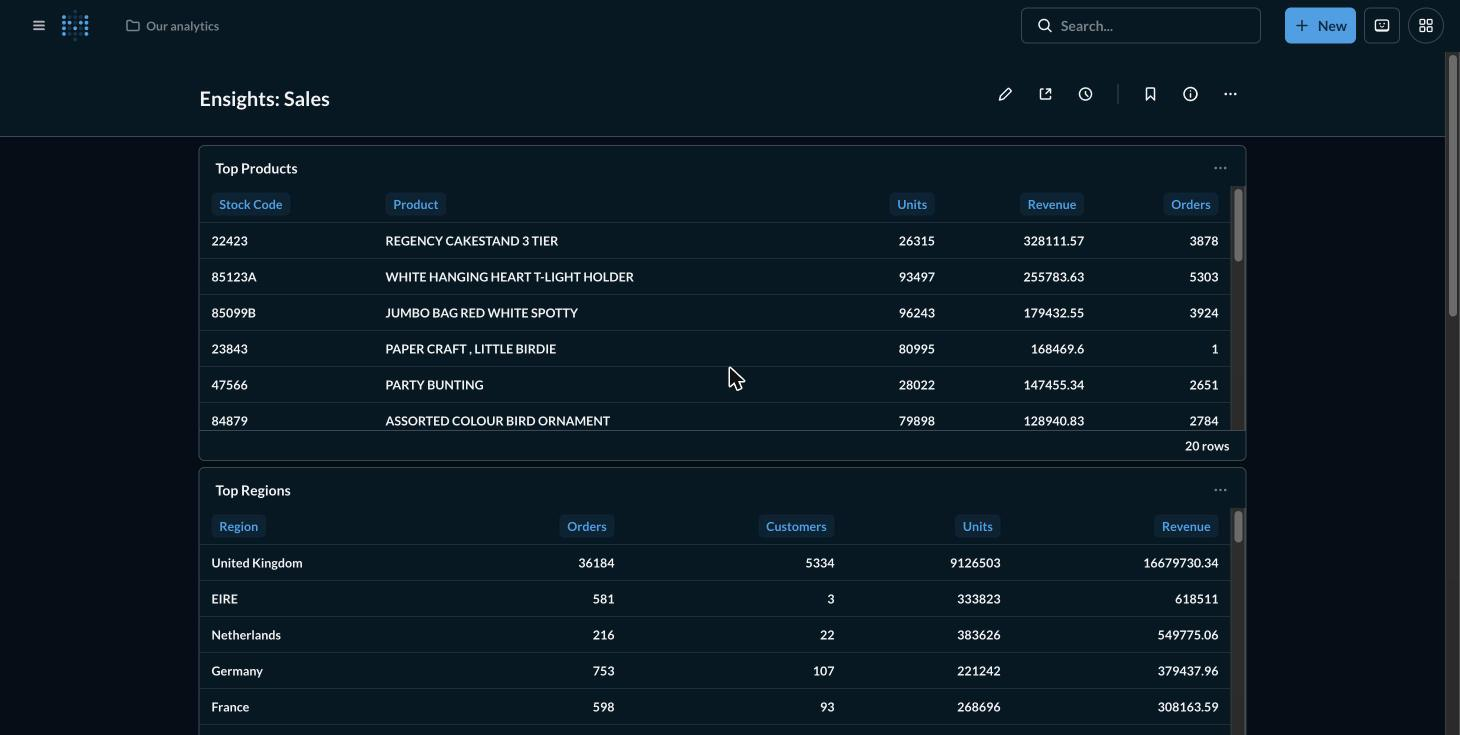
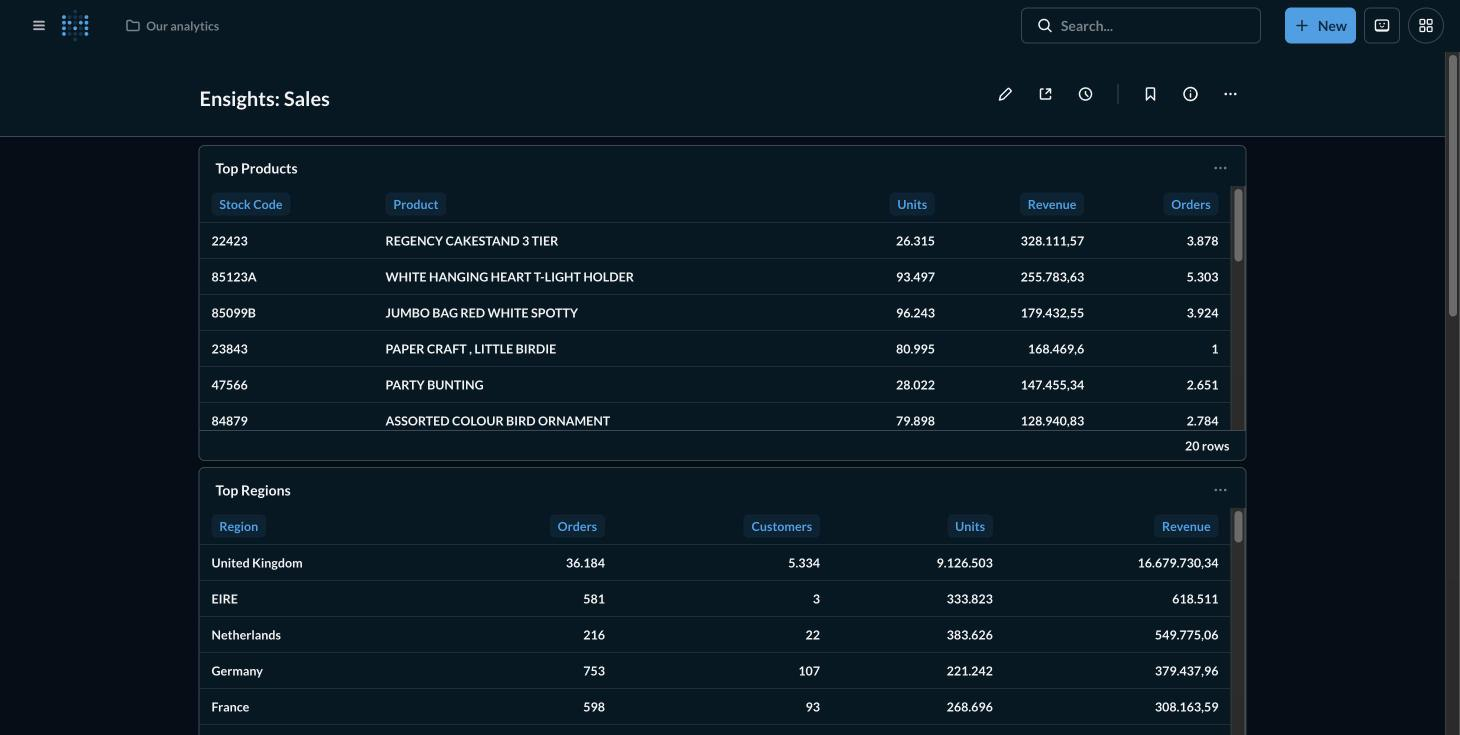
Match the thesis number convention in `Metabase`

diff --git a/metabase/README.md b/metabase/README.md
@@ -17,10 +17,11 @@ Metabase runs as an optional service and is already wired up:
 docker compose up metabase  # http://localhost:3000
 ```
 
-Set **Admin, Localization, Number separators** to `.` alone, so numbers carry
-a dot for the decimal mark and no thousands separator at all: `379437.96`, not
-`379,437.96`. A grouping separator is the ambiguous part here, since a dot
-groups thousands in some conventions and marks the decimal in others.
+Set **Admin, Localization, Number separators** to `,.`, a comma for the
+decimal mark and a dot for thousands, so a figure reads `379.437,96`. This is
+the Greek convention, and more to the point it is the one the manuscript
+itself uses, `39.516` orders and a MAPE of `38,48`. A reader comparing a
+dashboard figure against the thesis should not have to reparse the number.
 
 On first run, Metabase asks for a database to connect to. Use the read-only
 credentials `setup.sh` generated:
